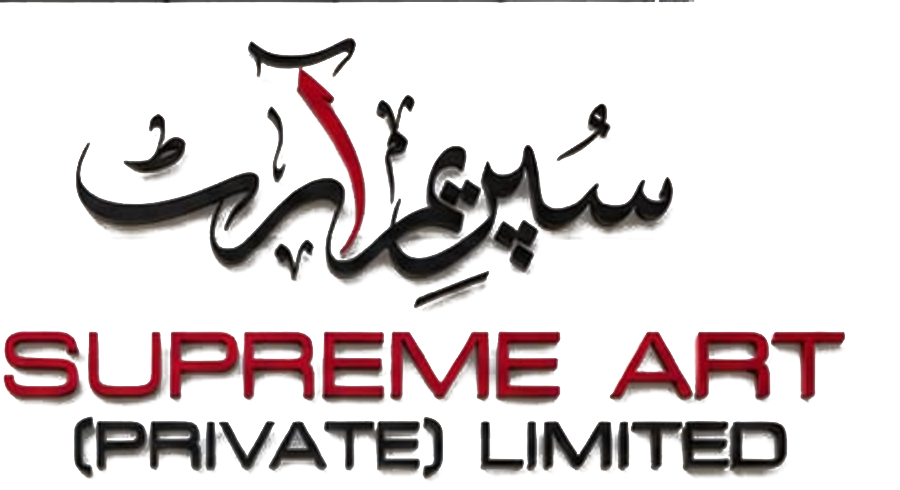
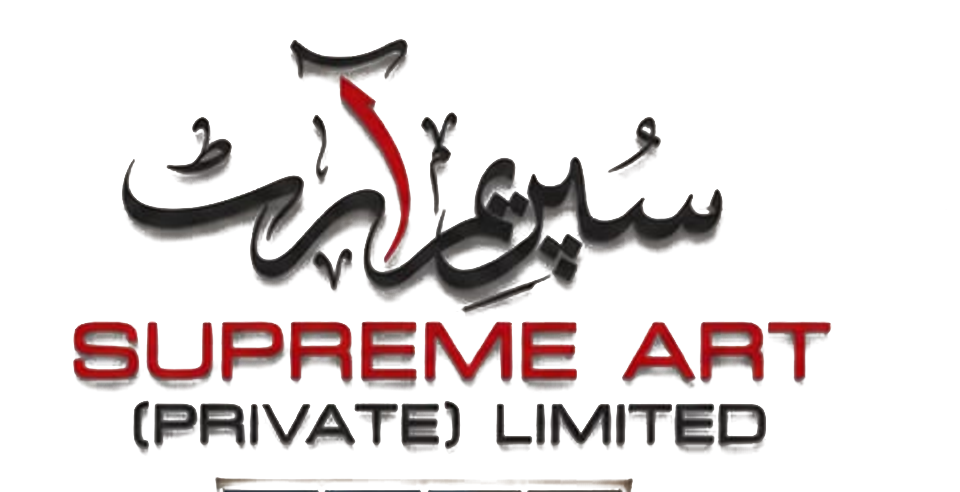
Home hero: new facade photo; dive runs straight into the hall; replica lettering sized to the wall sign; no per-frame shadow

diff --git a/static/styles.css b/static/styles.css
@@ -1671,18 +1671,19 @@ a { color: inherit; }
 .home-story__media img { position: absolute; inset: 0; width: 100%; height: 100%; object-fit: cover; object-position: 50% 50%; will-change: transform, opacity; backface-visibility: hidden; }
 .home-story__shot--press { opacity: 0; }
 /* object-position and transform-origin share the window under the signage, so it stays on screen at any viewport shape (script.js SIGN/WINDOW). */
-.home-story__facade { position: absolute; inset: 0; z-index: 1; transform-origin: 60.3% 43.7%; will-change: transform, opacity; }
-.home-story__media img.home-story__building { object-position: 60.3% 43.7%; }
+.home-story__facade { position: absolute; inset: 0; z-index: 1; transform-origin: 60% 43.7%; will-change: transform, opacity; }
+.home-story__media img.home-story__building { object-position: 60% 43.7%; }
 /* The signage box sits exactly over the signage in the photo (script.js places it and sets --sign-w); it lifts out as you
    scroll. Inside, the photo cut-out fades into a crisp replica: the logo mark and live text in the hero font. */
 .home-story__media img.home-story__wall { position: absolute; inset: auto; width: auto; height: auto; object-fit: fill; opacity: 0; }
-.home-story__sign { position: absolute; z-index: 2; aspect-ratio: 450 / 245; transform-origin: 50% 50%; will-change: transform, opacity; }
+.home-story__sign { position: absolute; z-index: 2; aspect-ratio: 480 / 246; transform-origin: 50% 50%; will-change: transform, opacity; }
 .home-story__media .home-story__sign img { position: absolute; width: auto; height: auto; object-fit: contain; filter: none; }
 .home-story__sign-cut { inset: 0; width: 100% !important; height: 100% !important; }
-.home-story__sign-crisp { position: absolute; inset: 0; opacity: 0; color: #1b1b1b; font-family: "Michroma", "Eurostile Extended", sans-serif; text-transform: uppercase; white-space: nowrap; text-align: center; }
-.home-story__media .home-story__sign-crisp img { left: 5%; top: 0; width: 70%; height: 56%; }
-.home-story__sign-name { position: absolute; left: 0; right: 0; top: 57%; font-size: calc(var(--sign-w, 450px) * .098); line-height: 1; letter-spacing: .02em; color: #c0262f; font-weight: 700; }
-.home-story__sign-sub { position: absolute; left: 0; right: 0; top: 79%; font-size: calc(var(--sign-w, 450px) * .064); line-height: 1; letter-spacing: .02em; }
+.home-story__sign-crisp { position: absolute; inset: 0; opacity: 0; filter: drop-shadow(0 14px 18px rgba(0,0,0,.35)); color: #1b1b1b; font-family: "Michroma", "Eurostile Extended", sans-serif; text-transform: uppercase; white-space: nowrap; text-align: center; }
+.home-story__media .home-story__sign-crisp img { left: 11.5%; top: 8%; width: 71.5%; height: 54%; }
+/* Sized from the wall: the name spans 90% of the box, the sub-line 75%; the sign's letters stand taller than Michroma's, hence the stretch. */
+.home-story__sign-name { position: absolute; left: 0; right: 0; top: 58.6%; font-size: calc(var(--sign-w, 480px) * .084); line-height: 1; letter-spacing: .02em; color: #c0262f; font-weight: 700; transform: scaleY(1.28); transform-origin: 50% 0; }
+.home-story__sign-sub { position: absolute; left: 0; right: 0; top: 80.5%; font-size: calc(var(--sign-w, 480px) * .059); line-height: 1; letter-spacing: 0; transform: scaleY(1.28); transform-origin: 50% 0; }
 .home-story__shade { position: absolute; z-index: 2; inset: 0; pointer-events: none; background: linear-gradient(180deg, rgba(0, 0, 0,.48), rgba(0, 0, 0,.12) 38%, rgba(0, 0, 0,.48)), linear-gradient(90deg, rgba(0, 0, 0,.44), transparent 55%, rgba(0, 0, 0,.12)); }
 .home-story__scenes { position: absolute; inset: 0; }
 .home-story__scene {

diff --git a/static/script.js b/static/script.js
@@ -257,8 +257,8 @@ document.querySelectorAll('[data-count]').forEach((el) => countIO.observe(el));
   // Where things are in the building photo, as fractions of it: the box the signage layer (hero-sign.png) was
   // cut from, and the window under it that the camera dives through. The photo is drawn to cover the frame,
   // anchored on the window (object-position in styles.css), so these map to the screen the same way at any size.
-  const SIGN = { x: 755 / 1600, y: 85 / 900, w: 450 / 1600 };
-  const WINDOW = { x: .603, y: .437 };
+  const SIGN = { x: 752 / 1600, y: 100 / 900, w: 480 / 1600 };
+  const WINDOW = { x: .6, y: .437 };
   let signRest = null;
   function placeSign() {
     const W = sticky.clientWidth, H = sticky.clientHeight;
@@ -269,19 +269,19 @@ document.querySelectorAll('[data-count]').forEach((el) => countIO.observe(el));
     [sign, wall].forEach(el => { el.style.left = left + 'px'; el.style.top = top + 'px'; el.style.width = width + 'px'; });
     sign.style.setProperty('--sign-w', width + 'px');
     // Where the lifted signage settles: centred, a little above the middle of the frame, as wide as the frame allows.
-    const height = width * 245 / 450;
+    const height = width * 246 / 480;
     const scale = Math.min(W * .86, H * .5 * width / height, width * 2.6) / width;
     signRest = { dx: W / 2 - (left + width / 2), dy: H * .44 - (top + height / 2), scale };
   }
 
   // Scroll timeline: hold on the building; the signage lifts off the wall (.06–.3) and settles in front of
-  // it; the camera dives through the window under the signage (.34–.6) into the press hall; then it
-  // glides from the front of the hall round to the Speedmaster's side (.68–.92) and holds.
+  // it; the camera dives through the window under the signage (.3–.56) straight into the press hall; then it
+  // glides from the front of the hall round to the Speedmaster's side (.6–.9) and holds. Nothing waits.
   // Only transform and opacity change, so the browser never re-rasterises the enlarged photos.
   function paint(p) {
     if (!signRest) placeSign();
     const lift = ease(span(p, .06, .3));
-    const zoom = span(p, .34, .6);
+    const zoom = span(p, .3, .56);
     const past = ease(span(zoom, 0, .4));
     const k = (1 + (signRest.scale - 1) * lift) * (1 + .8 * past);
     sign.style.transform = `translate(${signRest.dx * lift}px, ${signRest.dy * lift}px) scale(${k})`;
@@ -290,20 +290,19 @@ document.querySelectorAll('[data-count]').forEach((el) => countIO.observe(el));
     wall.style.opacity = String(span(lift, 0, .3));
     signCut.style.opacity = String(1 - span(lift, .12, .5));
     signCrisp.style.opacity = String(span(lift, .12, .5));
-    sign.style.filter = `drop-shadow(0 ${4 + 26 * lift}px ${6 + 30 * lift}px rgba(0,0,0,${.18 + .3 * lift}))`;
 
     facade.style.transform = `scale(${Math.pow(8, ease(zoom))})`;
     facade.style.opacity = String(1 - span(zoom, .72, .98));
 
-    const settle = ease(span(zoom, .6, 1));
-    const glide = ease(span(p, .68, .92));
+    const settle = ease(span(zoom, .5, 1));
+    const glide = ease(span(p, .6, .9));
     const swap = span(glide, .28, .72);
     hall.style.transform = `translateX(${-16 * glide}%) rotateY(${16 * glide}deg) scale(${1.08 + .22 * (1 - settle) + .3 * glide})`;
     hall.style.opacity = String(1 - swap);
     press.style.transform = `translateX(${16 * (1 - glide)}%) rotateY(${-16 * (1 - glide)}deg) scale(${1.02 + .34 * (1 - glide)})`;
     press.style.opacity = String(swap);
 
-    showStage(p < .45 ? 0 : p < .8 ? 1 : 2);
+    showStage(p < .5 ? 0 : p < .76 ? 1 : 2);
   }
 
   function frame() {
